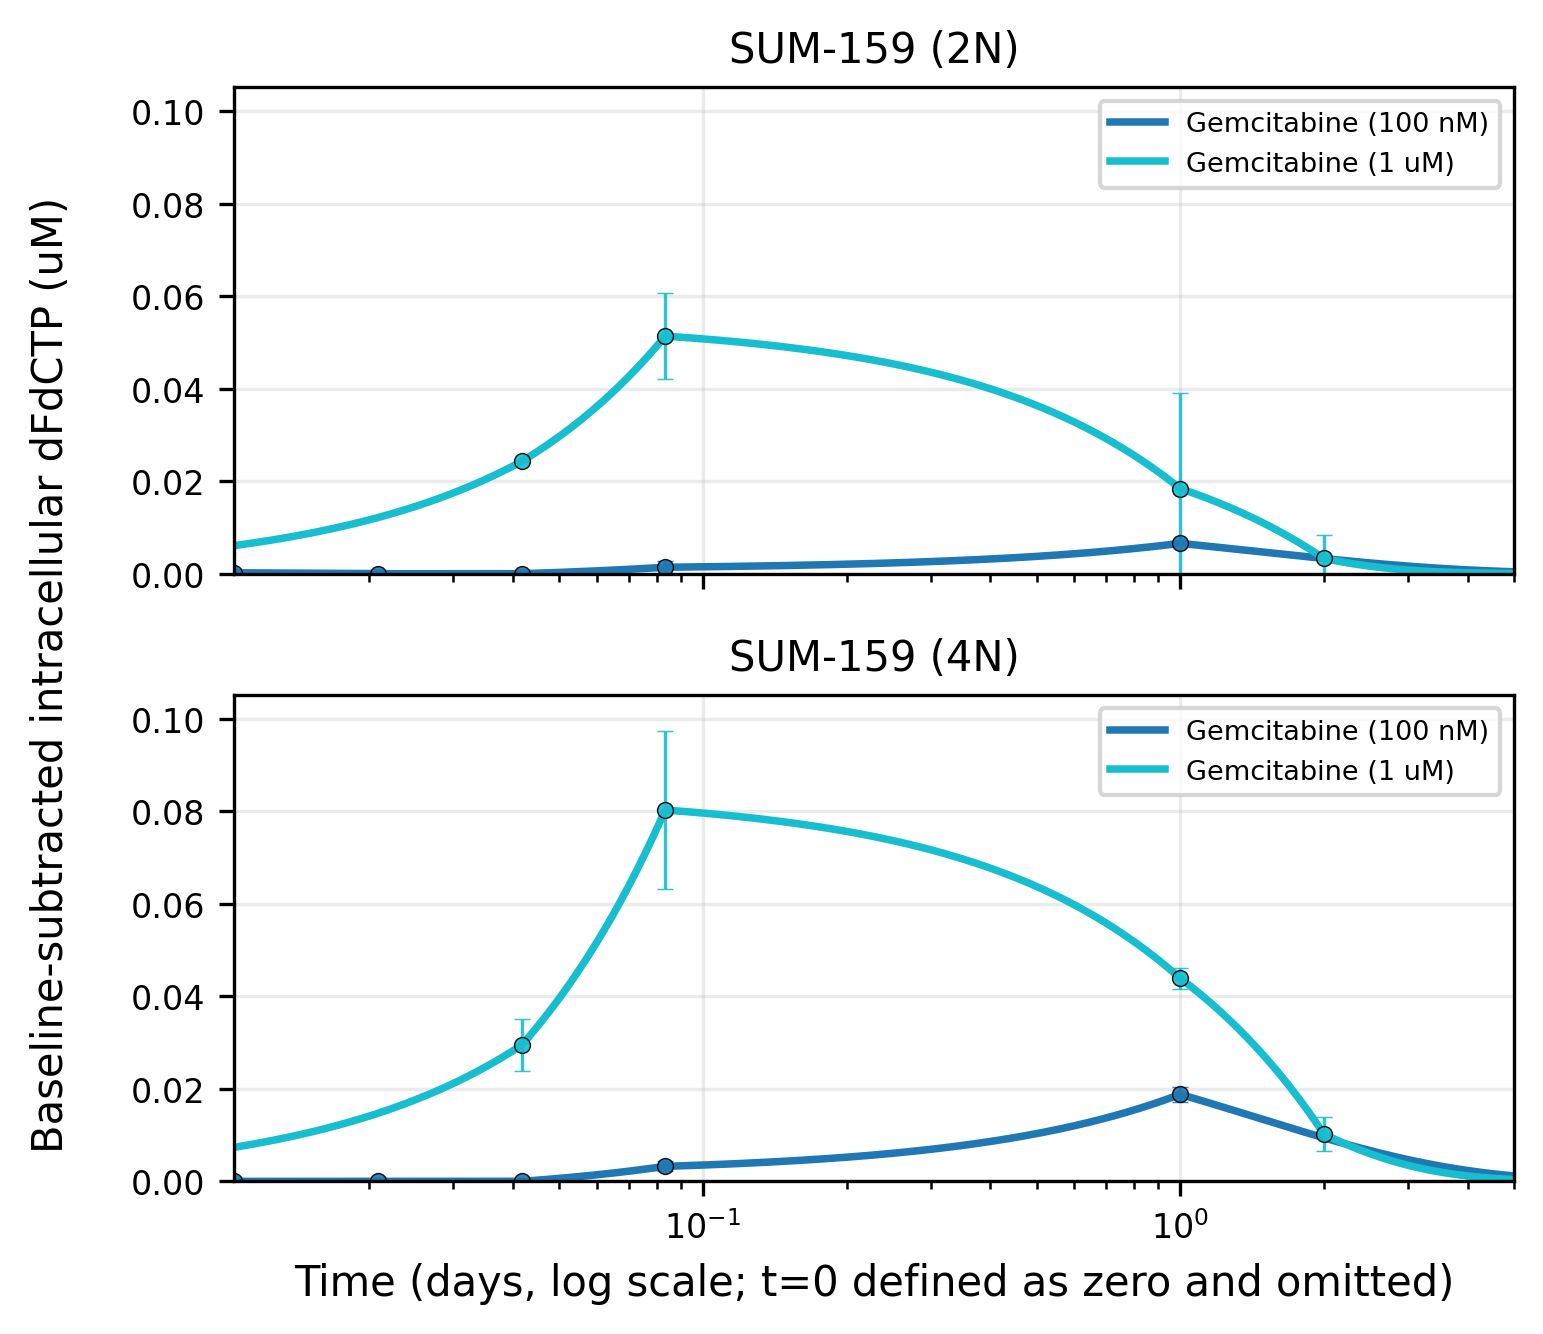
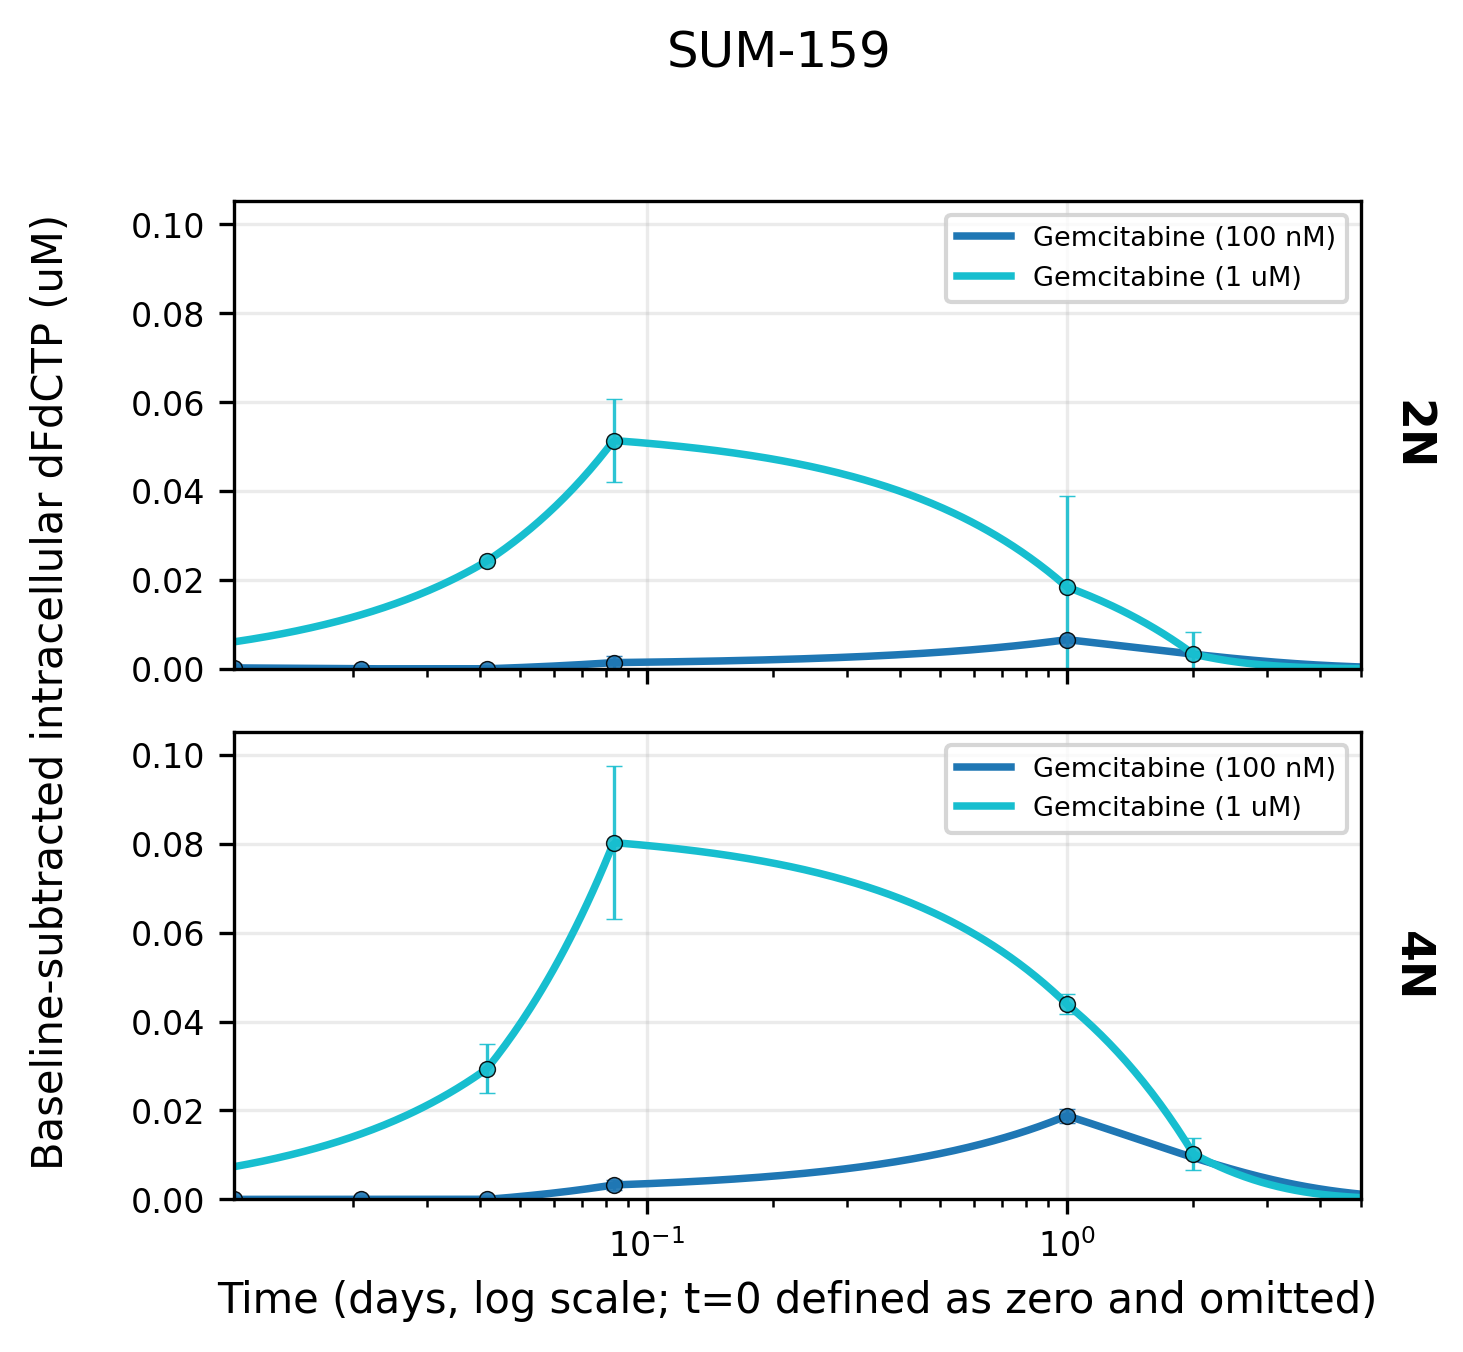
Refine Figure 5 PKPD source-panel layouts
Update the PKPD saved-summary plotter so Figure 5A uses right-side ploidy strip labels, Figure 5D and 5E are stacked 2x1 panels, Figure 5E uses in-panel dose legends instead of beta/reference annotation boxes, and Figure 5F uses a vertical parameter fold-change layout.

Regenerate the promoted PKPD source-run outputs and manuscript-facing Figure 5 source panels after the layout changes.

Validation: python3 -m py_compile Code/in-vitro/pkpd_live_dead_model/plot_invitro_fit_outputs.py; reran plot_invitro_fit_outputs.py on Results/in-vitro/pkpd_live_dead_model/runs/20260630T_promoted_panels_full_refit_pkpd_fit; reran materialize_figure_assets.py; ran git diff --check; visually inspected panels 5A, 5D, 5E, and 5F.

diff --git a/Code/in-vitro/pkpd_live_dead_model/plot_invitro_fit_outputs.py b/Code/in-vitro/pkpd_live_dead_model/plot_invitro_fit_outputs.py
@@ -30,7 +30,6 @@ import matplotlib
 matplotlib.use("Agg")
 
 import matplotlib.pyplot as plt
-from matplotlib.lines import Line2D
 from matplotlib.ticker import MaxNLocator
 import numpy as np
 import pandas as pd
@@ -163,23 +162,26 @@ def build_comparison_table(best_row: pd.Series, parameters: Iterable[str]) -> pd
 
 
 def plot_fold_change(comparison_df: pd.DataFrame, output_path: Path) -> None:
-    fig, ax = plt.subplots(figsize=(10, 5))
-    x = np.arange(len(comparison_df))
+    fig, ax = plt.subplots(figsize=(6.2, 5.8))
+    y = np.arange(len(comparison_df))
     values = comparison_df["log2_ratio_4N_over_2N"].to_numpy(dtype=float)
     colors = np.where(values >= 0.0, "#4C78A8", "#F58518")
 
-    ax.bar(x, values, color=colors, edgecolor="black", linewidth=0.6)
-    ax.axhline(0.0, color="black", linewidth=1.0)
-    ax.set_xticks(x)
-    ax.set_xticklabels(comparison_df["display_name"], rotation=35, ha="right")
-    ax.set_ylabel("log2(4N / 2N)")
+    ax.barh(y, values, color=colors, edgecolor="black", linewidth=0.6)
+    ax.axvline(0.0, color="black", linewidth=1.0)
+    ax.set_yticks(y)
+    ax.set_yticklabels(comparison_df["display_name"])
+    ax.invert_yaxis()
+    ax.set_xlabel("log2(4N / 2N)")
     ax.set_title("Fitted Parameter Fold-Change: 4N vs 2N")
-    ax.grid(axis="y", linestyle="--", alpha=0.35)
+    ax.grid(axis="x", linestyle="--", alpha=0.35)
+    value_range = max(float(np.nanmax(values) - np.nanmin(values)), 1.0)
+    ax.set_xlim(float(np.nanmin(values)) - 0.22 * value_range, float(np.nanmax(values)) + 0.22 * value_range)
 
     for idx, value in enumerate(values):
-        label_y = value + (0.06 if value >= 0 else -0.06)
-        va = "bottom" if value >= 0 else "top"
-        ax.text(idx, label_y, f"{2 ** value:.2g}x", ha="center", va=va, fontsize=8)
+        label_x = value + (0.06 if value >= 0 else -0.06)
+        ha = "left" if value >= 0 else "right"
+        ax.text(label_x, idx, f"{2 ** value:.2g}x", ha=ha, va="center", fontsize=8)
 
     fig.tight_layout()
     fig.savefig(output_path, dpi=200, bbox_inches="tight")
@@ -673,7 +675,17 @@ def plot_stacked_dfdctp_signal_curves(
                     markeredgecolor="black",
                     markeredgewidth=0.35,
                 )
-        ax.set_title(f"SUM-159 ({ploidy})", fontsize=10)
+        ax.text(
+            1.025,
+            0.5,
+            ploidy,
+            transform=ax.transAxes,
+            rotation=270,
+            va="center",
+            ha="left",
+            fontsize=11,
+            fontweight="bold",
+        )
         ax.set_xscale("log")
         ax.set_xlim(min_positive_time, max_plot_time)
         ax.set_ylim(*y_limits)
@@ -681,9 +693,10 @@ def plot_stacked_dfdctp_signal_curves(
         ax.tick_params(axis="both", labelsize=8)
         ax.legend(loc="upper right", fontsize=6.5, frameon=True)
 
+    fig.suptitle("SUM-159", fontsize=12)
     fig.supylabel("Baseline-subtracted intracellular dFdCTP (uM)", fontsize=10)
     axes[-1, 0].set_xlabel("Time (days, log scale; t=0 defined as zero and omitted)", fontsize=10)
-    fig.tight_layout()
+    fig.tight_layout(rect=(0.0, 0.0, 0.95, 0.96))
     fig.savefig(output_path, dpi=300, bbox_inches="tight")
     plt.close(fig)
 
@@ -773,7 +786,7 @@ def plot_effective_dfdctp_signal_curves(
         and gate_hill > 0
     )
 
-    fig, axes = plt.subplots(1, 2, figsize=(12.0, 4.5), sharex=True, sharey=True)
+    fig, axes = plt.subplots(2, 1, figsize=(6.2, 7.0), sharex=True, sharey=True)
     for ax, ploidy in zip(axes, ("2N", "4N")):
         if ploidy not in available_curves:
             ax.set_axis_off()
@@ -816,60 +829,38 @@ def plot_effective_dfdctp_signal_curves(
         ax.set_title(f"{ploidy} effective signal", fontsize=10)
         ax.grid(True, alpha=0.25)
         ax.tick_params(axis="both", labelsize=9)
-        ax.text(
-            0.03,
-            0.96,
-            f"beta={beta_dose:.3g}\nref={reference_dose * 1000.0:.3g} nM",
-            transform=ax.transAxes,
-            va="top",
-            ha="left",
-            fontsize=8,
-            bbox={"boxstyle": "round", "facecolor": "white", "alpha": 0.82, "edgecolor": "0.75"},
+        ax.legend(
+            loc="upper left",
+            fontsize=5.3,
+            title="Dose",
+            title_fontsize=6,
+            ncol=2,
+            frameon=True,
+            borderpad=0.35,
+            handlelength=1.8,
+            columnspacing=0.8,
         )
 
-    axes[0].set_ylabel("Effective dFdCTP signal (uM-equivalent)", fontsize=10)
-    for ax in axes:
-        ax.set_xlabel("Time (days, log scale; t=0 omitted)", fontsize=10)
+    fig.supylabel("Effective dFdCTP signal (uM-equivalent)", fontsize=10)
+    axes[-1].set_xlabel("Time (days, log scale; t=0 omitted)", fontsize=10)
     correction_label = "beta + Hill corrected" if use_hill else "beta corrected"
     fig.suptitle(f"Fitted effective intracellular dFdCTP signal ({correction_label})", fontsize=11)
-    handles, labels = axes[-1].get_legend_handles_labels()
-    if handles:
-        fig.legend(
-            handles,
-            labels,
-            loc="center left",
-            bbox_to_anchor=(1.01, 0.5),
-            fontsize=8,
-            title="Dose",
-            title_fontsize=8,
-        )
     if use_hill:
         fig.text(
             0.5,
-            0.005,
+            0.018,
             f"Shared Hill gate: EC50={gate_ec50 * 1000.0:.3g} nM, h={gate_hill:.3g}",
             ha="center",
             fontsize=8,
         )
-    style_handles = [
-        Line2D([0], [0], color="0.25", linestyle="-", linewidth=1.8, label="PK-calibrated dose"),
-        Line2D([0], [0], color="0.25", linestyle="--", linewidth=1.8, label="Interpolated/scaled dose"),
-    ]
-    fig.legend(
-        handles=style_handles,
-        loc="lower left",
-        bbox_to_anchor=(0.01, 0.005),
-        fontsize=8,
-        frameon=False,
-    )
     fig.text(
         0.5,
-        0.025,
+        0.04,
         "Effective signal is zero at t=0; t=0 is omitted from the log-scale curves.",
         ha="center",
         fontsize=8,
     )
-    fig.tight_layout(rect=(0.0, 0.08, 0.88, 0.95))
+    fig.tight_layout(rect=(0.0, 0.08, 1.0, 0.95))
     fig.savefig(output_path, dpi=300, bbox_inches="tight")
     plt.close(fig)
 
@@ -1115,7 +1106,7 @@ def plot_single_dose_ploidy_comparison(
             }
         )
 
-    fig, axes = plt.subplots(1, 2, figsize=(11.2, 4.4), sharex=True, sharey=True)
+    fig, axes = plt.subplots(2, 1, figsize=(5.8, 7.0), sharex=True, sharey=True)
     for ax, row in zip(axes, plot_rows):
         t_data = row["t"]
         for j in range(row["alive_obs"].shape[1]):
@@ -1125,10 +1116,10 @@ def plot_single_dose_ploidy_comparison(
             ax.scatter(t_data, row["dead_obs"][:, j], color=DEAD_OBS_COLOR, alpha=0.35, s=22)
         ax.plot(t_data, row["dead_sim"], color=DEAD_MODEL_COLOR, linewidth=2.2, linestyle="--", label="Dead Model")
         ax.set_title(f"{row['ploidy']} at {dose_label}", fontsize=12, fontweight="bold")
-        ax.set_xlabel("Time (Days)")
         ax.xaxis.set_major_locator(MaxNLocator(integer=True))
         ax.grid(True, linestyle="--", alpha=0.6)
-    axes[0].set_ylabel("Cell Count")
+    fig.supylabel("Cell Count")
+    axes[-1].set_xlabel("Time (Days)")
     axes[0].legend(loc="upper left", fontsize=9)
     fig.suptitle(f"{dose_label} live/dead fit comparison: 2N vs 4N", fontsize=14, fontweight="bold")
     fig.tight_layout(rect=[0.0, 0.0, 1.0, 0.93])
